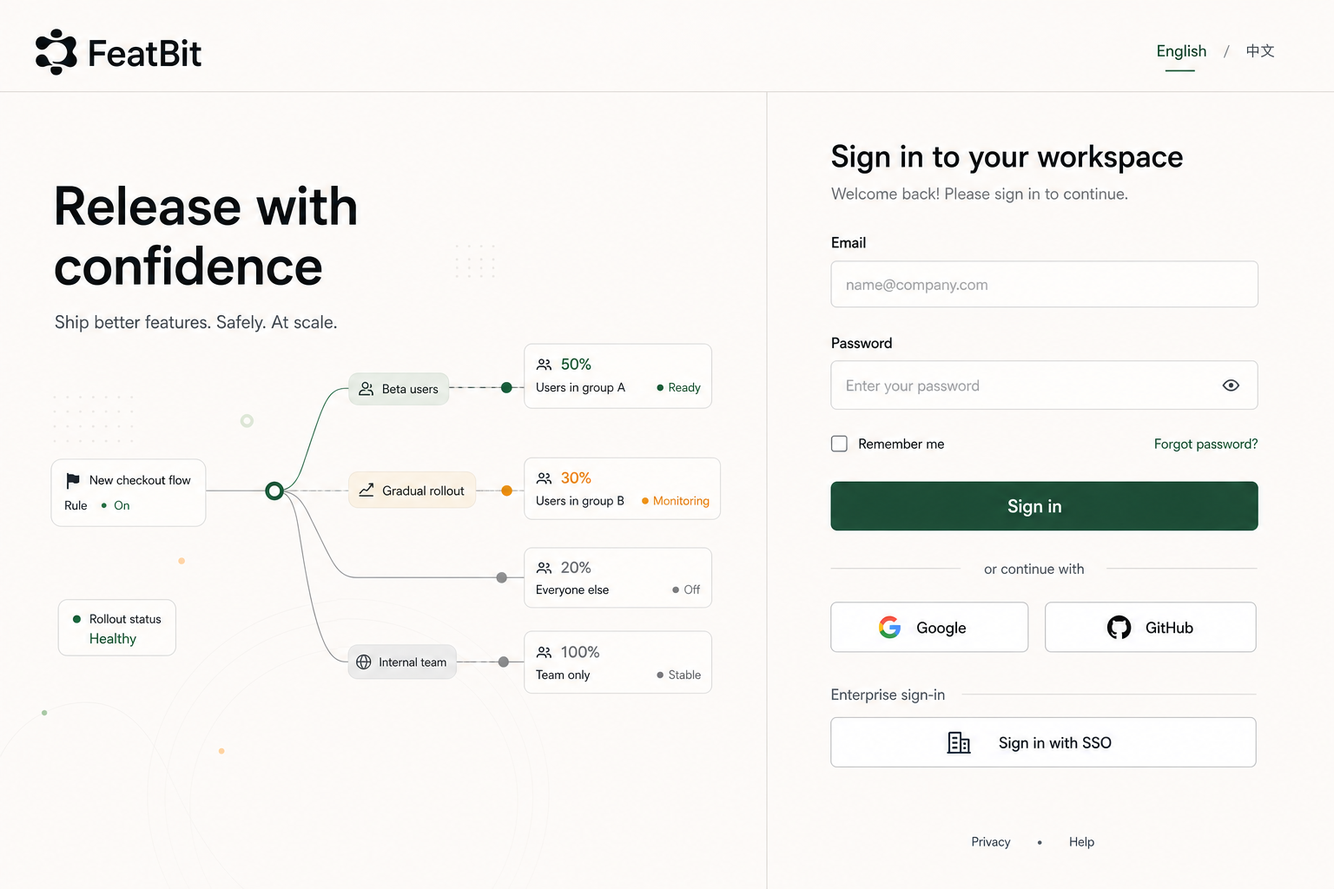
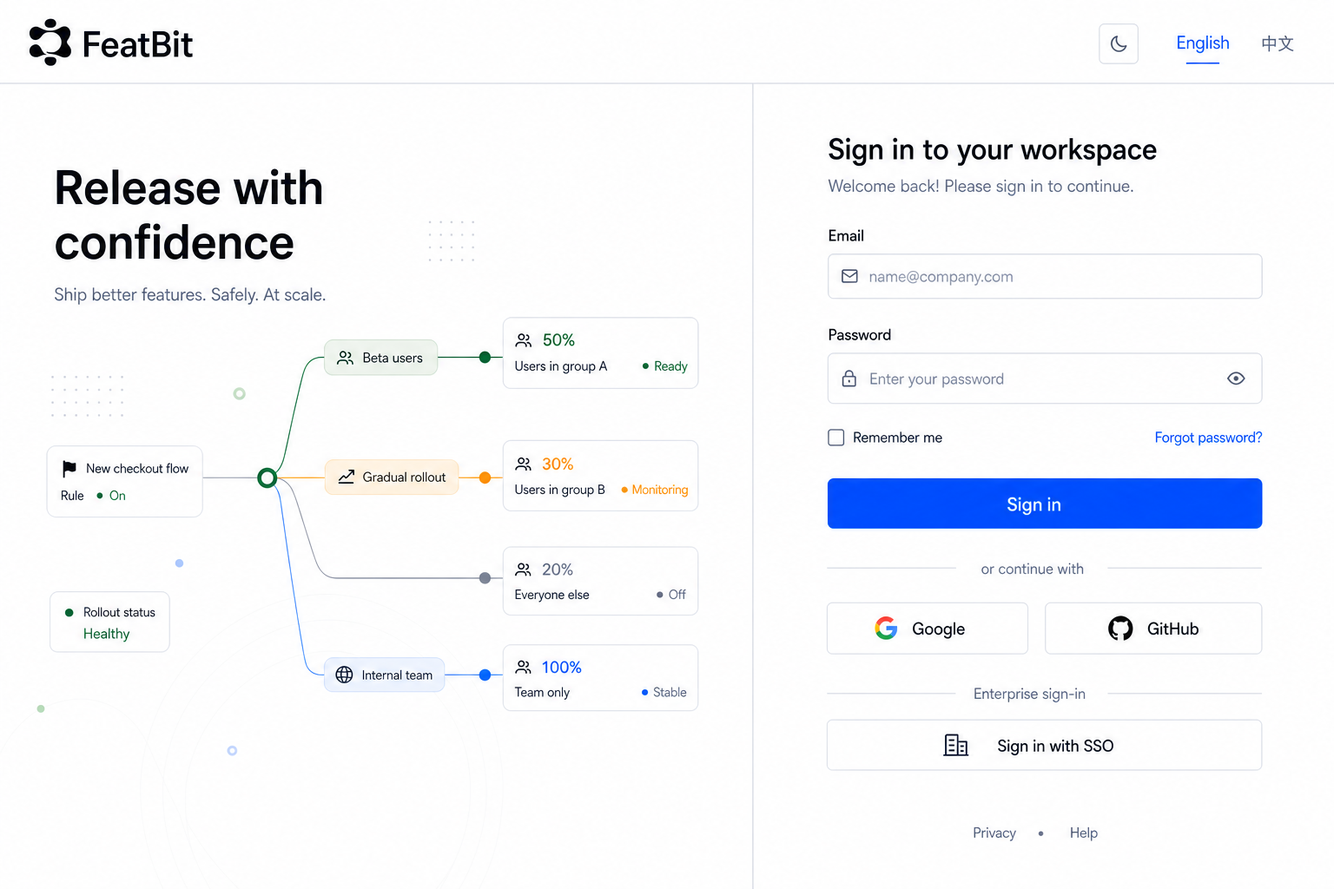
update docs

diff --git a/modules/plan.md b/modules/plan.md
@@ -16,13 +16,21 @@ Create a standalone React front-end in `D:\Workspace\FeatBit\featbit\modules\fro
 
 ## Implementation Plan
 
-1. Scaffold the `front-end-react` project with Vite, TypeScript aliases, Tailwind, shadcn/ui, React Router, TanStack Query, react-i18next, theme provider, and lint/test/build scripts. See [implementation detail 01](implementation-details/01-scaffold-front-end-react.md).
-2. Build core infrastructure: env loader, API client, auth/session store, workspace/org/project/env store, permission/license helpers, and base toast/dialog/drawer/table/form components. See [implementation detail 02](implementation-details/02-core-infrastructure.md).
-3. Migrate the shell: login, auth guard, secure-area layout, side menu, header, top-right subscription plan badge, account menu with current version display, theme and locale controls, and workspace/org/project/env switching. See [implementation detail 03](implementation-details/03-shell-and-navigation.md).
-4. Migrate feature domains page by page: feature flags, users, segments, experiments, audit logs, workspace, organization, relay proxies, IAM, and integrations. See [implementation detail 04](implementation-details/04-feature-domain-pages.md).
-5. Migrate complex capabilities: feature flag targeting/rules, change review/pending changes, policy editor, resource editor/finder, lightweight JSON editor, Shiki/lightweight CodeBlock, and Recharts charting. See [implementation detail 05](implementation-details/05-complex-capabilities.md).
-6. Migrate i18n copy: extract English/Chinese resources from Angular templates and `messages.zh.xlf`, then organize them as react-i18next JSON namespaces. See [implementation detail 06](implementation-details/06-i18n-migration.md).
-7. Align deployment and documentation: README, local development commands, production build, Docker/Nginx, environment variables, and future cutover steps. See [implementation detail 07](implementation-details/07-deployment-and-documentation.md).
+The migration is executed step by step. The user may ask the agent to run a specific step by number, for example `execute migration step 1`, `execute step 2 only`, or `run migration step 3`. When a specific step is requested, only that step and the minimum prerequisite checks for that step should be performed. Do not continue into later steps unless the user explicitly asks for them.
+
+Initial executable steps:
+
+1. **Project initialization**: Scaffold the `front-end-react` project with Vite, React, TypeScript aliases, Tailwind, shadcn/ui, React Router, TanStack Query, react-i18next, theme provider, and lint/test/build scripts. Runtime and tooling dependencies must use the latest stable LTS-compatible versions available at implementation time. Do not use release candidates or prerelease channels. See [implementation detail 01](implementation-details/01-scaffold-front-end-react.md).
+2. **Login page**: Generate the redesigned login and SSO pages according to the saved design contracts, with public theme and language controls, but without migrating authenticated feature pages. See [implementation detail 03](implementation-details/03-shell-and-navigation.md) and [login page design](design/login-page-design.md).
+3. **Console shell frame**: Generate the authenticated console frame with header/context bar and left sidebar navigation. The main page content area should remain intentionally empty or use a minimal placeholder container until later page-specific steps are added. See [implementation detail 03](implementation-details/03-shell-and-navigation.md) and [console design](design/react-console-design.md).
+
+Future steps will be appended below this list as the migration scope expands:
+
+4. Build core infrastructure: env loader, API client, auth/session store, workspace/org/project/env store, permission/license helpers, and base toast/dialog/drawer/table/form components. See [implementation detail 02](implementation-details/02-core-infrastructure.md).
+5. Migrate feature domains page by page: feature flags, users, segments, experiments, audit logs, workspace, organization, relay proxies, IAM, and integrations. See [implementation detail 04](implementation-details/04-feature-domain-pages.md).
+6. Migrate complex capabilities: feature flag targeting/rules, change review/pending changes, policy editor, resource editor/finder, lightweight JSON editor, Shiki/lightweight CodeBlock, and Recharts charting. See [implementation detail 05](implementation-details/05-complex-capabilities.md).
+7. Migrate i18n copy: extract English/Chinese resources from Angular templates and `messages.zh.xlf`, then organize them as react-i18next JSON namespaces. See [implementation detail 06](implementation-details/06-i18n-migration.md).
+8. Align deployment and documentation: README, local development commands, production build, Docker/Nginx, environment variables, and future cutover steps. See [implementation detail 07](implementation-details/07-deployment-and-documentation.md).
 
 ## Asset Policy
 
@@ -38,7 +46,7 @@ The React version should not be a 1:1 clone of the Angular UI or reuse the Angul
 - Console shell design contract: The authenticated React console shell must be implemented according to [react-console-design.md](design/react-console-design.md), with [react-console-light.png](design/react-console-light.png) and [react-console-dark.png](design/react-console-dark.png) as the required visual baselines. This design currently governs the shell only: header/context bar, sidebar, sidebar collapse behavior, account menu, subscription/license badge, spacing density, typography scale, and light/dark theme behavior. The Feature Flags content area shown in the images is only a placeholder/example and still needs a separate product-page design pass before it becomes an implementation target.
 - Visual language: Support light and dark themes with the same information hierarchy. Prefer shadcn's default neutral palette and semantic variables for the overall product surface so future palette changes are easy. Do not carry over Angular-era greens, grays, or ng-zorro-inspired colors as the React default. FeatBit brand color should appear mainly in the logo and rare brand accents, not as the default primary/action system.
 - Theme system: Use shadcn's native dark-mode setup for Vite: Tailwind `darkMode: ["class"]`, shadcn CSS variables, the standard `ThemeProvider` / `useTheme` pattern, and shadcn component tokens such as `bg-background`, `text-foreground`, `border-border`, `bg-card`, `text-muted-foreground`, `bg-popover`, `text-primary`, `text-destructive`, and `ring-ring`. Do not build a parallel theme system.
-- Theme behavior: Provide the shadcn-style `ThemeProvider` with `light`, `dark`, and `system` modes, persist the user's preference in local storage, and default to `system` for new users. In the authenticated shell, place theme switching inside the left-bottom Account menu rather than the top-right header. Keep the login page theme-aware.
+- Theme behavior: Provide the shadcn-style `ThemeProvider` with `light`, `dark`, and `system` modes, persist the user's preference in local storage, and default to `system` for new users. In the authenticated shell, place theme switching inside the left-bottom Account menu rather than the top-right header. On login and SSO login pages, expose a compact theme toggle icon button in the top-right header before the language switcher.
 - Status system: Start with shadcn-compatible semantic variants and neutral styling instead of hard-coding a custom color taxonomy. Use `default`, `secondary`, `outline`, and `destructive` badge/button patterns where possible. Add small, documented status tokens only when the product meaning cannot be expressed clearly with shadcn defaults.
 - Layout: Use a left product navigation, a top global context bar, a page title area, a toolbar, and the main workspace. The top context bar should only show Organization, Project, and Environment as the primary context path. Do not place user avatar, theme switcher, or language switcher in the top-right header. The top-right header may show only a compact subscription plan badge. The left-bottom Account entry is the single authenticated identity, preference, and version entry point.
 - Sidebar behavior: The sidebar must support collapse/expand. In expanded mode, show the FeatBit mark + wordmark in the sidebar header and a small `PanelLeftClose` icon button near the sidebar/content divider. In collapsed mode, shrink the sidebar to an icon rail, show only the FeatBit mark without the wordmark, hide section labels and item text, show tooltips on hover, and replace the control with `PanelLeftOpen`. The left-bottom Account entry collapses to the user's initials or a generic user icon with a tooltip. Persist the collapsed state in localStorage, for example `featbit:sidebar-collapsed`.
@@ -52,7 +60,7 @@ The React version should not be a 1:1 clone of the Angular UI or reuse the Angul
 - Subscription/license display: Show a richer, clickable license/plan badge in the top-right header, following the Angular implementation's information model but using shadcn styling. The badge should be compact but may contain two text lines plus a small icon/chevron: for SaaS Free plan show `Free Plan` and `Upgrade Now`; for an expired license show `License Expired` and the plan name; for an expiring license show `Expiring in N days` and the plan name; for an active paid license show `Current Plan` and the plan name; when no license/plan data is available show `Upgrade Now` and `Get Enterprise`. Do not show the plan in the `Organization / Project / Environment` context path. Clicking the badge should navigate to Workspace billing/subscription settings: Free plan opens the pricing/upgrade flow, while paid/license states open the license or subscription detail page. Use shadcn semantic variants for urgency: neutral for active, secondary/default for free, warning-style token for expiring soon, and destructive for expired.
 - Account display: Do not show a configurable user avatar because FeatBit does not support user avatar settings. The left-bottom Account button should show the user's name/email with an initial or generic user icon only. Its menu should contain Profile, Support, Documentation, Sign out, language switcher, theme switcher, and the current version. The Account menu should not duplicate the top-right subscription plan badge.
 - Current version display: Follow the local `feat/show-current-version` branch behavior. React should read `VERSION` from runtime env as `window.env.version`, default to `dev`, expose it through the typed env helper, and show it in the account/about area as `Version: <version>`. The version row should be visible from the authenticated shell account menu and may link to `https://github.com/featbit/featbit`.
-- Login page: Fully redesign it. Do not reuse the old background or old illustration card. Use the current concept and rationale in [login-page-design.md](design/login-page-design.md): a structured split layout with the Angular FeatBit logo style, a left feature rollout abstraction, a right authentication column, Google/GitHub OAuth, and a separate Enterprise SSO section. Do not use console previews, AI messaging, or footer dividers.
+- Login page: Fully redesign it. Do not reuse the old background or old illustration card. Implement the saved login and SSO designs in [login-page-design.md](design/login-page-design.md) and [sso-login-page-design.md](design/sso-login-page-design.md) as required design contracts, not loose references. The implementation must strictly follow the saved light/dark design images for the structured split layout, Angular FeatBit logo style, left feature rollout abstraction, right authentication columns, Google/GitHub OAuth, separate Enterprise SSO section, colors, backgrounds, borders, controls, shadows, and light/dark theming. Do not add console screenshots, AI messaging, or footer dividers.
 - Workspace/Organization selection: Use searchable lists or cards. When there are many workspaces/organizations, search and keyboard-friendly selection are required.
 - Base components: Build `PageShell`, `PageHeader`, `ContextBar`, `SidebarNav`, `DataToolbar`, `DataTable`, `StatusBadge`, `CopyableCode`, `EnvironmentBadge`, `ConfirmAction`, `EntityDrawer`, `EmptyState`, `PendingChangesDrawer`, `RuleBuilder`, and `ResourceSelector`.
 - Data visualization: Use Recharts + shadcn/chart-style wrappers such as `ChartContainer`, `ChartTooltip`, and `ChartLegend`. Do not migrate the G2 dependency. Experiments, insights, and trend pages should primarily use clean line/bar/area/composed charts that align with shadcn tokens and light/dark variables.

diff --git a/modules/implementation-details/03-shell-and-navigation.md b/modules/implementation-details/03-shell-and-navigation.md
@@ -4,6 +4,15 @@
 
 Migrate the application shell: login, auth guard, secure layout, side navigation, top header, top-right subscription/license badge, left-bottom account menu with current version display, theme and locale controls, and workspace/org/project/env switching.
 
+## Step Scope
+
+This document currently backs two independently executable migration steps:
+
+- Step 2, login page: implement only the public login and SSO pages, including public theme/language controls and session submission wiring where the project foundation already supports it.
+- Step 3, console shell frame: implement only the authenticated console frame, including header/context bar and left sidebar navigation. Leave the main content area intentionally empty or as a minimal neutral placeholder until later feature-page steps are added.
+
+When the user asks for one of these steps by number, keep the implementation inside that boundary and do not continue into the other shell work unless it is a small prerequisite needed to compile or route correctly.
+
 ## Routes
 
 - Preserve language-prefixed routes with `/en/*` and `/zh/*`.
@@ -18,12 +27,15 @@ Migrate the application shell: login, auth guard, secure layout, side navigation
 
 - Fully redesign the login page.
 - Do not copy the old Angular login background or old illustration card.
-- Use [the saved login concept and design rationale](../design/login-page-design.md) as the reference direction.
-- Use [the saved SSO login concept and design rationale](../design/sso-login-page-design.md) for the `Sign in with SSO` flow.
+- Implement [the saved login design contract](../design/login-page-design.md) strictly for the email/password login flow.
+- Implement [the saved SSO login design contract](../design/sso-login-page-design.md) strictly for the `Sign in with SSO` flow.
+- Treat the saved light/dark login images as required implementation baselines, not loose references.
 - Use a restrained split layout:
-  - header with current Angular FeatBit logo style, language switcher, and header-bottom divider.
-  - left area with feature rollout / traffic split abstraction, not a console preview and not AI messaging.
+  - header with current Angular FeatBit logo style, top-right theme toggle, language switcher, and header-bottom divider.
+  - left area with feature rollout / traffic split abstraction, not a console screenshot and not AI messaging.
   - right authentication column with email/password login, Google/GitHub OAuth, and a separate Enterprise SSO section.
+- Preserve the saved login page elements and hierarchy, but style colors, backgrounds, borders, controls, shadows, and light/dark theme tokens to match the authenticated React console.
+- The public login theme toggle should sit immediately before the language switcher and use a moon icon in light theme and a sun icon in dark theme.
 - Keep a vertical divider between the left visual area and right login column.
 - Do not add a footer divider line.
 - Do not place checkmark, success, verified, or tick icons in the right login area.
@@ -34,6 +46,7 @@ Migrate the application shell: login, auth guard, secure layout, side navigation
 
 - Implement the authenticated shell according to [react-console-design.md](../design/react-console-design.md), with [react-console-light.png](../design/react-console-light.png) and [react-console-dark.png](../design/react-console-dark.png) as required visual baselines. These assets govern shell layout only; the Feature Flags content shown inside the shell is a placeholder and not final page design.
 - Use a left navigation plus top context bar layout.
+- For migration step 3, the main workspace area must remain blank or contain only a minimal neutral placeholder shell container. Do not implement Feature Flags, dashboards, settings pages, or other domain content in this step.
 - Implement sidebar collapse/expand:
   - expanded sidebar shows the FeatBit mark + wordmark.
   - expanded sidebar shows a `PanelLeftClose` icon button near the sidebar/content divider.
@@ -101,6 +114,23 @@ Integrations sub-items:
 - Context changes must invalidate relevant TanStack Query caches for `projectId` and `envId`, and navigate safely when the current route depends on unavailable context.
 
 ## Acceptance Criteria
+
+Step 2 acceptance:
+
+- `/en/login` and `/zh/login` render the redesigned email/password login page.
+- The SSO login route renders the dedicated SSO flow from the saved design contract.
+- Public theme switching works before authentication and persists across reloads.
+- Login and SSO pages do not copy the old Angular login background or old illustration card.
+
+Step 3 acceptance:
+
+- Authenticated routes render the console shell frame with header/context bar and left sidebar navigation.
+- The main content area is empty or uses only a minimal placeholder container, with no migrated domain page content.
+- Sidebar collapse/expand works, persists across reloads, and provides tooltips for collapsed navigation items.
+- The authenticated top-right header does not show a user avatar, theme switcher, or language switcher.
+- The account menu displays identity/preferences/version entry points according to the shell design.
+
+Full shell acceptance for later completion:
 
 - Users can login, select workspace, complete onboarding, and reach the secure shell.
 - The authenticated shell matches the saved React console design contract for layout, spacing density, typography scale, sidebar behavior, context bar, subscription/license badge, account menu, and light/dark styling.

diff --git a/modules/design/login-page-design.md b/modules/design/login-page-design.md
@@ -1,16 +1,20 @@
-# Login Page Design Direction
+# Login Page Design Contract
 
-## Current Concept
+## Required Designs
 
-Reference image: [login-page-concept.png](login-page-concept.png)
+Implementation must strictly follow these design images:
 
-This concept is the current preferred direction for the React login page. It should be treated as a design reference, not a pixel-perfect implementation requirement.
+- Light theme: [login-page-concept.png](login-page-concept.png)
+- Dark theme: [login-page-console-dark.png](login-page-console-dark.png)
+
+These images are the required implementation contract for the React login page. They are not optional references. Layout, hierarchy, spacing rhythm, color treatment, control styling, borders, and light/dark behavior should match the saved designs as closely as practical in the browser. Any intentional visual deviation must update this document and the saved design assets first.
 
 Related SSO page design: [sso-login-page-design.md](sso-login-page-design.md)
 
-## Design Intent
+## Design Requirements
 
 - Create a fully redesigned login page rather than copying the Angular login screen.
+- Keep all authentication page elements from the current login concept while aligning the visual treatment with the authenticated React console.
 - Keep the page modern, structured, and quiet, with less card-like composition.
 - Preserve the current Angular FeatBit brand logo style: dark charcoal symbol plus FeatBit wordmark.
 - Make authentication the primary task while using the left side to express FeatBit's product category through feature release and rollout visuals.
@@ -19,6 +23,7 @@ Related SSO page design: [sso-login-page-design.md](sso-login-page-design.md)
 ## Layout
 
 - Use a top header with FeatBit logo on the left and language switcher on the right.
+- Add a compact theme toggle icon button in the top-right header, immediately before the language switcher.
 - Add a subtle horizontal divider between the header and main content.
 - Split the main content into two areas with a subtle vertical divider.
 - Left side contains the brand statement and an abstract release-path visual.
@@ -52,14 +57,19 @@ Related SSO page design: [sso-login-page-design.md](sso-login-page-design.md)
 ## Visual Style
 
 - Use shadcn/ui and Tailwind defaults for controls as much as possible.
-- Preferred palette: warm ivory background, deep ink text, muted evergreen accent, pale mint surfaces, graphite dividers, sparse amber highlights.
-- Avoid bright Angular green dominance, purple/blue gradient dominance, decorative blobs, bokeh, stock illustrations, and heavy shadows.
+- Match the authenticated React console visual language described in [react-console-design.md](react-console-design.md).
+- The theme toggle should use a shadcn-style square outline icon button: moon icon in light theme, sun icon in dark theme.
+- Light theme should use console-like white and very light slate surfaces, crisp slate text, thin light borders, and blue primary actions.
+- Dark theme should use neutral dark slate surfaces, light foreground text, muted slate secondary text, thin dark borders, and the same blue primary action language.
+- Use small green, orange, and blue status accents only where they support the rollout visual.
+- Avoid bright Angular green dominance, warm ivory/evergreen login-specific palettes, purple/blue gradient dominance, decorative blobs, bokeh, stock illustrations, and heavy shadows.
 - Use subtle borders and layout dividers for structure.
 
 ## Implementation Notes
 
-- The final implementation does not need to match the generated image pixel-for-pixel.
+- The final implementation should be validated against the saved light and dark design images. Treat meaningful differences in layout, visual hierarchy, colors, borders, shadows, controls, and responsive behavior as implementation defects unless this document and the saved assets are updated first.
 - Prefer CSS/SVG for the left abstract release-path graphic so it can be responsive and maintainable.
 - Keep all text translatable through `react-i18next`.
 - Ensure the layout works for both `/en/login` and `/zh/login`.
+- Theme switching must be available before authentication and should share the same persisted `light` / `dark` / `system` theme behavior as the React console.
 - On smaller screens, collapse to a single-column login-first layout and hide or simplify the left visual.

diff --git a/modules/design/sso-login-page-design.md b/modules/design/sso-login-page-design.md
@@ -1,16 +1,20 @@
-# SSO Login Page Design Direction
+# SSO Login Page Design Contract
 
-## Current Concept
+## Required Designs
 
-Reference image: [sso-login-page-concept.png](sso-login-page-concept.png)
+Implementation must strictly follow these design images:
 
-This concept shows the page after clicking `Sign in with SSO` from the main login page. It should use the same visual system as the main login page and should feel like the same authentication flow.
+- Light theme: [sso-login-page-concept.png](sso-login-page-concept.png)
+- Dark theme: [sso-login-page-console-dark.png](sso-login-page-console-dark.png)
+
+These images are the required implementation contract for the SSO login page after clicking `Sign in with SSO` from the main login page. They are not optional references. Layout, hierarchy, spacing rhythm, color treatment, control styling, borders, and light/dark behavior should match the saved designs as closely as practical in the browser. Any intentional visual deviation must update this document and the saved design assets first.
 
 Related design: [login-page-design.md](login-page-design.md)
 
-## Design Intent
+## Design Requirements
 
 - Keep the same structured split layout as the main login page.
+- Keep all SSO page elements from the current concept while aligning the visual treatment with the authenticated React console.
 - Make the SSO flow focused and minimal.
 - Ask for `Workspace key`, not workspace domain.
 - Keep `Back to sign in` as the only way back to the normal login flow.
@@ -20,6 +24,7 @@ Related design: [login-page-design.md](login-page-design.md)
 
 - Use the same header as the main login page:
   - Angular-style FeatBit logo on the left.
+  - theme toggle icon button in the top-right header, immediately before the language switcher.
   - language switcher on the right.
   - subtle horizontal divider below the header.
 - Use the same main split:
@@ -53,14 +58,20 @@ Related design: [login-page-design.md](login-page-design.md)
 
 ## Visual Style
 
-- Reuse the main login page palette: warm ivory background, deep ink text, muted evergreen accent, pale mint surfaces, graphite dividers, sparse amber highlights.
+- Reuse the main login page visual system and keep it aligned with [react-console-design.md](react-console-design.md).
+- The theme toggle should use a shadcn-style square outline icon button: moon icon in light theme, sun icon in dark theme.
+- Light theme should use console-like white and very light slate surfaces, crisp slate text, thin light borders, and blue primary actions.
+- Dark theme should use neutral dark slate surfaces, light foreground text, muted slate secondary text, thin dark borders, and the same blue primary action language.
+- Use small green, orange, and blue status accents only where they support the rollout visual.
 - Use shadcn/ui and Tailwind defaults for input and button styling.
 - Keep dividers subtle but visible.
-- Avoid floating cards, heavy shadows, decorative blobs, bokeh, stock illustration, and old Angular/ng-zorro styling.
+- Avoid warm ivory/evergreen login-specific palettes, floating cards, heavy shadows, decorative blobs, bokeh, stock illustration, and old Angular/ng-zorro styling.
 
 ## Implementation Notes
 
+- The final implementation should be validated against the saved light and dark design images. Treat meaningful differences in layout, visual hierarchy, colors, borders, shadows, controls, and responsive behavior as implementation defects unless this document and the saved assets are updated first.
 - The SSO page should be a dedicated route or state under the login flow, for example `/en/login/sso` and `/zh/login/sso`, or an equivalent route chosen during implementation.
 - The `Workspace key` field should be validated as required before continuing.
 - Keep all text translatable through `react-i18next`.
+- Theme switching must be available before authentication and should share the same persisted `light` / `dark` / `system` theme behavior as the React console.
 - On smaller screens, collapse to a single-column SSO-first layout and hide or simplify the left visual.

diff --git a/modules/implementation-details/01-scaffold-front-end-react.md b/modules/implementation-details/01-scaffold-front-end-react.md
@@ -14,6 +14,19 @@ Create the standalone React application foundation in `front-end-react` without 
 - Use `react-i18next` for i18n.
 - Use Playwright as the browser E2E runner.
 
+## Step Scope
+
+This document defines migration step 1: project initialization. When the user asks to execute only step 1, scaffold and verify the React project foundation only. Do not build the final login page, authenticated console shell, or feature pages as part of this step.
+
+## Dependency Version Policy
+
+- Use the latest stable LTS-compatible versions available at implementation time for runtime and tooling dependencies.
+- For platforms with an LTS concept, such as Node.js, use the latest active or maintenance LTS line rather than a current experimental line.
+- For packages without an LTS concept, use the latest stable release that is compatible with the selected LTS runtime and the rest of the stack.
+- Do not use prerelease channels or versions marked `rc`, `alpha`, `beta`, `next`, `canary`, or `experimental`.
+- Prefer exact or lockfile-pinned resolved versions after installation so repeat installs are deterministic.
+- If the latest stable version conflicts with another required package, choose the newest mutually compatible stable version and document the reason in `front-end-react/README.md`.
+
 ## Required Setup
 
 - Create `front-end-react` as an independent package with its own `package.json`, `tsconfig`, Vite config, Tailwind config, ESLint config, test config, and README.
